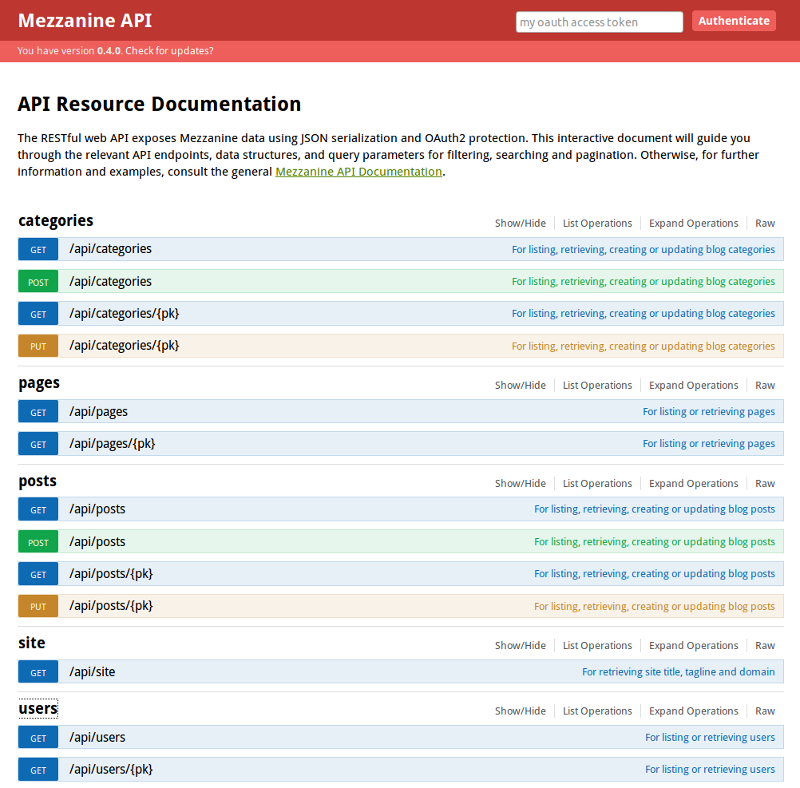
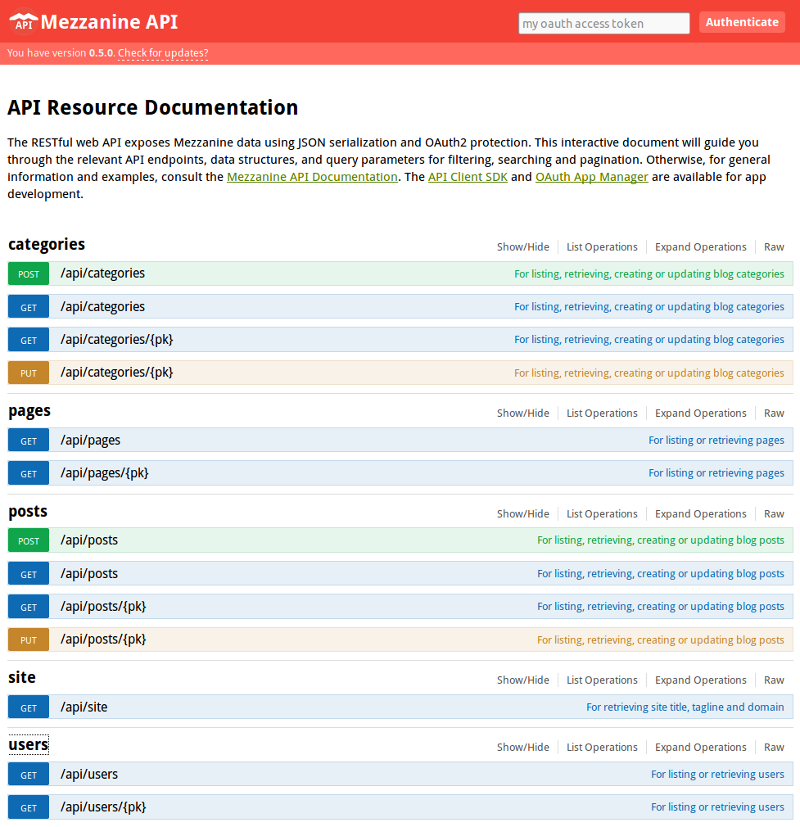
Update docs

Changed region(s): [[0.0, 0.2741, 1.0, 1.0], [0.0, 0.1218, 0.9688, 0.2437], [0.0, 0.0, 1.0, 0.0914]]

diff --git a/docs/index.md b/docs/index.md
@@ -31,46 +31,73 @@ UI].
 
 ## Installation
 
-In order to install Mezzanine API you'll need [Python] installed on your system, as well as the [Mezzanine] CMS.  
+In this section, we first explain how to create a new CMS API project. Alternatively, the latter sub-sections explain how to install into an existing Mezzanine project, or to install with Docker.
+
+Remember to regularly check back here and on [PyPi]/[Github] for updates to the documentation and package, respectively. [Upgrade instructions and release notes](release-notes.md) are also available.
+
+
+### New Project
+
+Once you have [Python] (2.7 or 3.3+) installed on your system, a new API project can be created by running the following commands:
+
+    $ pip install -U mezzanine-api
+    $ mezzanine-project -a mezzanine_api project_name && cd $_
+    $ python manage.py createdb --noinput
+    $ python manage.py runserver
+
+You should then be able to browse to [http://127.0.0.1:8000/admin/](http://127.0.0.1:8000/admin/) and login using the default account (username: admin, password: default).
+
+### Existing project
+
+Assuming you have an existing [Mezzanine] CMS project, the API can be installed into it as follows:
 
 1. Install the `mezzanine-api` package using pip:
 
-        $ pip install --upgrade mezzanine-api
+        $ pip install -U mezzanine-api
 
-2. Add the following apps in this order to *INSTALLED_APPS* in your Mezzanine `settings.py`:
+2. Add the following apps in this order to the top of `INSTALLED_APPS` in your Mezzanine `settings.py`:
 
         INSTALLED_APPS = (
-            ...
             'mezzanine_api',
             'rest_framework',
             'rest_framework_swagger',
             'oauth2_provider',
+            ...
         )
 
-3. Also, add the following lines at the end of your `settings.py` module:
+3. Add the API middleware to the top of `MIDDLEWARE_CLASSES` in `settings.py`:
+
+        MIDDLEWARE_CLASSES = (
+            'mezzanine_api.middleware.ApiMiddleware',
+            ...
+
+4. Also, add the following lines in your `settings.py` module
+somewhere *before* the `LOCAL SETTINGS` block which is near the end:
 
         #####################
         # REST API SETTINGS #
         #####################
         try:
             from mezzanine_api.settings import *
-        except ImportError as e:
+        except ImportError:
             pass
 
-4. For Mezzanine 4.1.0 and above, add the following code in your Mezzanine `urls.py` somewhere after ``urlpatterns += [`` (approx line 29):
+5. For Mezzanine 4.1.0 and above, add the following code in your Mezzanine `urls.py` somewhere after `urlpatterns += [` (approx line 29):
 
         # REST API URLs
         url("^api/", include("mezzanine_api.urls")),
 
-5. Migrate the database to support OAuth2:
+6. Migrate the database to support OAuth2:
 
         $ python manage.py migrate
 
-6. Start the server:
+7. Start the server:
 
         $ python manage.py runserver
 
-Remember to regularly check back here and on [PyPi]/[Github] for updates to the documentation and package, respectively. [Upgrade instructions and release notes](release-notes.md) are also available. 
+### Docker
+
+A [Docker file](https://github.com/gcushen/mezzanine-api-docker) is available for the API in a separate Github project. The Docker file is currently in beta and we welcome your feedback.
 
 ---
 
@@ -138,6 +165,12 @@ provide a structure that allows for pagination. Please use a "page" parameter to
         "results": [{ ... }]
     } 
 
+## CORS
+The API supports requests and responses using Cross-Origin Resource Sharing (CORS). You may want to check out this excellent [tutorial](http://www.html5rocks.com/en/tutorials/cors/) for an overview on how to use CORS.
+
+By default, API requests are allowed from any origin so you do not need to worry about the URIs of your API and client apps. You may disable this by adding the following line to your `local_settings.py`:
+
+    MZN_API_CORS_ORIGIN_ALLOW_ALL = False
 
 ## Getting help
 If you have questions about the API, consider leaving a message in our [Gitter chat room] or using the general [Mezzanine discussion group].

diff --git a/docs/client.md b/docs/client.md
@@ -6,33 +6,49 @@ Mezzanine client is a **Python SDK** and **remote CLI** for [Mezzanine API](inde
 
     pip install --upgrade mezzanine-client
 
+[*Star* the Client on Github](https://github.com/gcushen/mezzanine-client-python/) to help support further development. You can also *watch* it on Github to keep track of updates.
+
 ## Getting Started
 
-Prerequisites: install [Mezzanine](http://mezzanine.jupo.org) and [Mezzanine API](index.md#installation) either locally or remotely, as we need an API to connect to.
+Prerequisites: install [Mezzanine API](index.md#installation) either locally or remotely, as we need an API to connect to.
 
-1. Login to your Mezzanine CMS Admin Panel
-2. In the menu, click OAuth > Applications
+1. Login to your Mezzanine CMS Admin Panel (e.g. [http://127.0.0.1:8000/admin/](http://127.0.0.1:8000/admin/))
+2. In the menu, click *OAuth* > *Applications*
 3. Create a new application with the following details:
 
         App Name: Mezzanine Python Client
-        App Key: key
+        App ID: id
         App Secret: secret
         Client Type: Confidential
         Grant Type: Code
+        Redirect URI: https://httpbin.org/get
 
 ## Examples
 
-Download the examples from <https://github.com/gcushen/mezzanine-client-python> .
+The client's `Mezzanine` class in the `api` module contains a set of methods for accessing the API. Some of the most common methods are demonstrated in the following command line interface examples:
+
+- `posts_list.py` List published blog posts
+- `posts_retrieve.py <post_id>` Retrieve the specified blog post
+- `posts_create.py` Create a new blog post
+
+Start by downloading the examples included in <https://github.com/gcushen/mezzanine-client-python/archive/master.zip> , or directly with `wget`:
+
+    $ mkdir mezzanine-client-examples && cd $_ && wget https://raw.githubusercontent.com/gcushen/mezzanine-client-python/master/examples/posts_list.py \
+    https://raw.githubusercontent.com/gcushen/mezzanine-client-python/master/examples/posts_retrieve.py \
+    https://raw.githubusercontent.com/gcushen/mezzanine-client-python/master/examples/posts_create.py
+
+Allow examples to be executed without explicit `python` command:
+
+    $ chmod u+x posts_*.py
 
 Prior to running the examples, export your app key and secret to your terminal environment:
 
-    $ export MN_KEY='key'
+    $ export MN_ID='id'
     $ export MN_SECRET='secret'
-
 
 Then run an example:
 
-    $ ./posts_list_recent.py
+    $ ./posts_list.py
 
 The first time the app attempts to access the API, it will ask you to click a link to authorize it. The web page will redirect you to a page with some data similar to below.
 
@@ -41,7 +57,7 @@ The first time the app attempts to access the API, it will ask you to click a li
         "state": "Euf91j3H6uEE9VQ9mWsvFC5s3eEMJt"
     },
 
-The code in this case is "vYQqcQSHmqkezX09xh8qflGVYUw6F8" *without* the speech marks and should be pasted back into the app within 1 minute to complete the authorization.
+The code in this case is "vYQqcQSHmqkezX09xh8qflGVYUw6F8" *without* the speech marks and should be pasted back into the app within one hour to complete the authorization.
 
 ## Community
 

diff --git a/docs/release-notes.md b/docs/release-notes.md
@@ -10,6 +10,17 @@ You can determine your currently installed version using `pip freeze`:
 
     $ pip freeze | grep mezzanine-api
 
+## Version 0.5.0 (2016-04-15)
+
+* Add API middleware (support CORS)
+* Switch from Page Number to Limit Offset Pagination
+* Add project_template for easy API project creation
+* Add Material theme
+* Add Order By filter
+* Fix blog post Field filter
+* Update default settings
+* Advise importing `mezzanine_api.settings` prior to `local_settings.py` in Mezzanine's `settings.py`, as per revised installation docs
+
 ## Version 0.4.2 (2016-03-14)
 
 * Fix Issue #3: `KeyError: 'context'`
